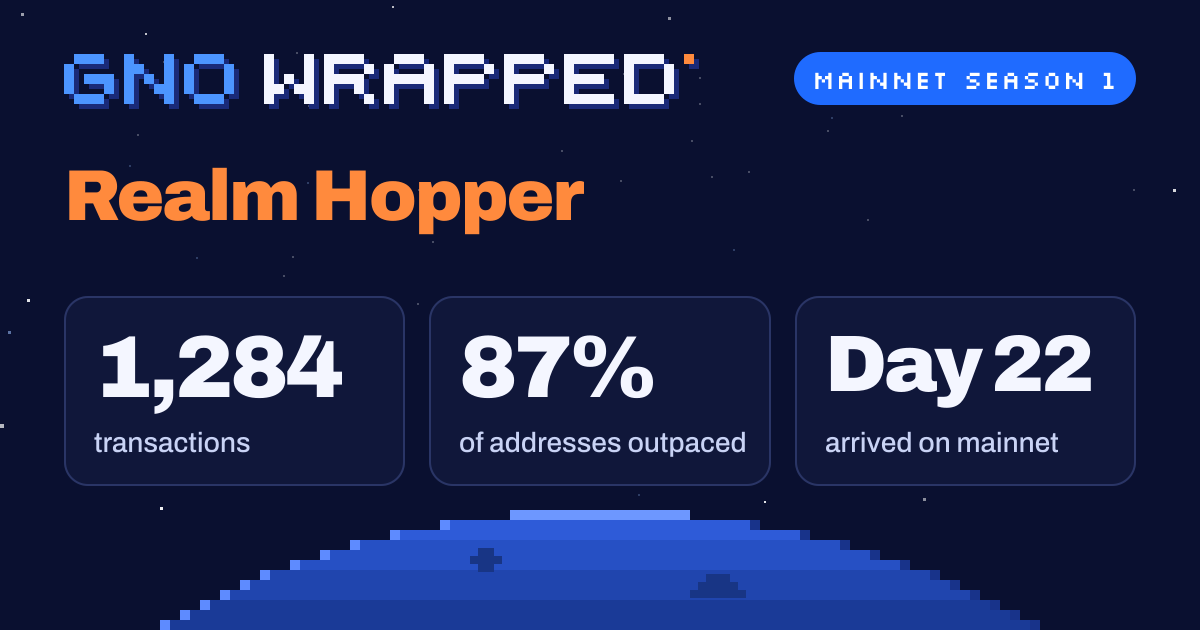
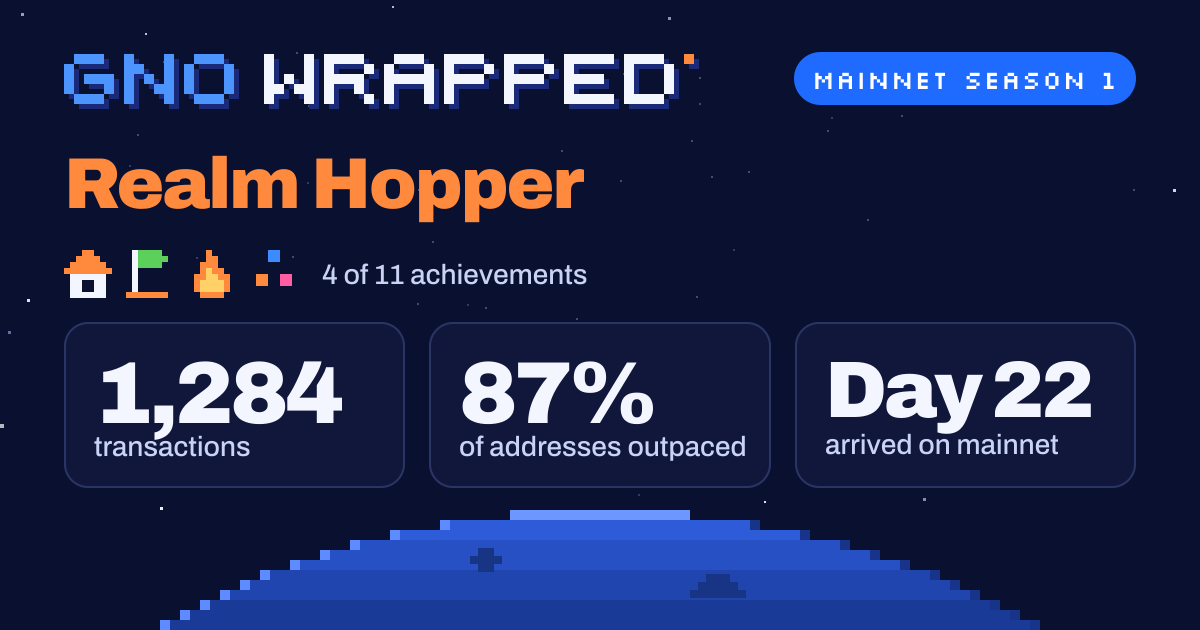
docs: refresh the README screenshots and add a demo GIF
- A 20-second demo GIF at the top: the recap's badge tilting with its
  pixel foil, cards lighting up around the pointer, the achievement
  collection and story mode.
- Retaken: recap, personas (nine, Validator second), share card (with
  the achievement row), intro (the several-wallets hint) and the three
  story shots.
- New: the achievement collection and the README badge (an SVG).

All taken from the sample fixture (g1wrap…qqqq), so no real address;
the persona counts and the intro's live stats come from local batch
output.

diff --git a/README.md b/README.md
@@ -14,7 +14,7 @@ and a share card for X and Discord. It follows the chain live, so new activity s
 > Gno Wrapped is an independent community project, not an official gno.land product.
 > It reads only public on-chain data.
 
-![A recap: persona, rank, headline stats and achievements](docs/screenshots/recap.png)
+![Demo: the recap's badge tilting with its pixel foil, cards lighting up around the pointer, the achievement collection and story mode](docs/demo.gif)
 
 ## Key Features
 
@@ -51,11 +51,17 @@ and a share card for X and Discord. It follows the chain live, so new activity s
 - **Live, then final**: a countdown to the season's end; after it, recaps are marked final.
 - **English and Korean**: English by default, switched in the top bar.
 
+![A recap: persona, rank, headline stats and the start of the achievement collection](docs/screenshots/recap.png)
+
+![The achievement collection: earned ones in colour, the rest as grey silhouettes with their rule](docs/screenshots/collection.png)
+
 Every chart reads out the day under the pointer or the arrow keys and has a Table view. How personas
 and achievements are decided is on the site's `/personas` page and in [`batch/build.go`](batch/build.go)
 and [`batch/achievements.go`](batch/achievements.go).
 
-<p align="center"><img src="docs/screenshots/share-card.png" width="760" alt="Share card shown on X and Discord"></p>
+<p align="center"><img src="docs/screenshots/share-card.png" width="760" alt="Share card shown on X and Discord, with the achievement icons"></p>
+
+<p align="center"><img src="docs/screenshots/readme-badge.svg" alt="README badge: the pixel persona badge, Realm Hopper, 1,284 transactions and 4 of 11 achievements"></p>
 
 <p align="center">
   <img src="docs/screenshots/story-arrival.png" width="250" alt="Story mode on a phone: the mainnet day you arrived">
@@ -63,7 +69,7 @@ and [`batch/achievements.go`](batch/achievements.go).
   <img src="docs/screenshots/story-persona.png" width="250" alt="Story mode: the season persona">
 </p>
 
-![Personas page](docs/screenshots/personas.png)
+![Personas page: nine personas, Validator second](docs/screenshots/personas.png)
 
 ## Getting Started
 
